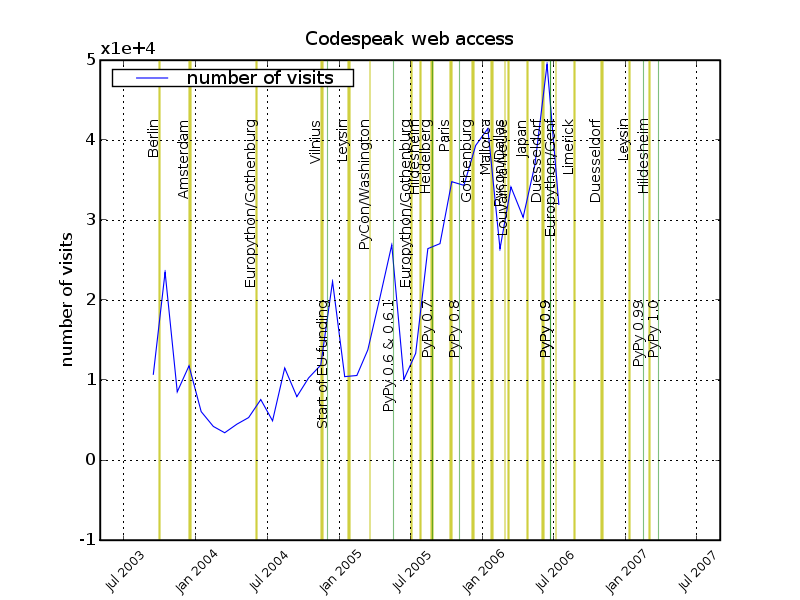
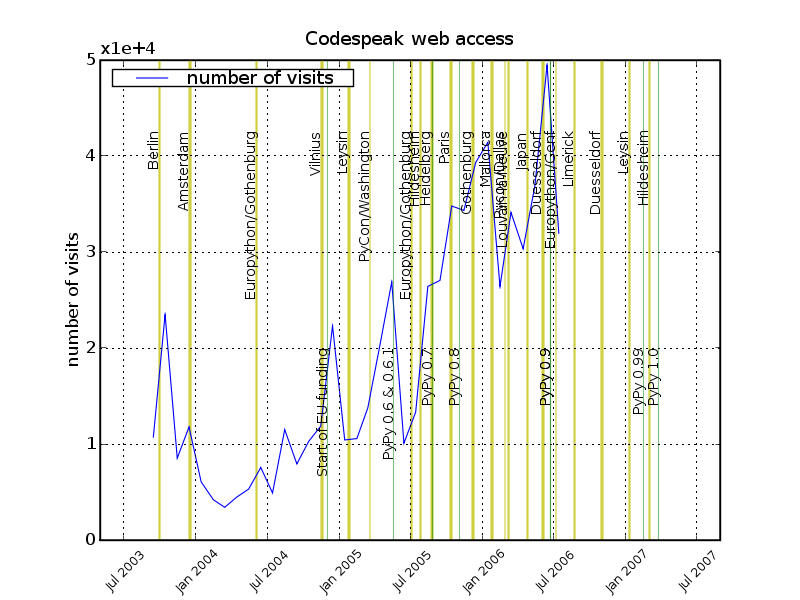
great. the plots improve if I _disable_ the autoscaler. matplotlib sucks.
--HG--
extra : convert_revision : svn%3A5fdb0b31-00ae-4507-bd76-94d651a7451c/pypy/dist%4041718

diff --git a/pypy/doc/statistic/format.py b/pypy/doc/statistic/format.py
@@ -94,7 +94,7 @@ def csv2png(p):
     pylab.xlabel("")
     ticklabels = ax.get_xticklabels()
     pylab.setp(ticklabels, 'rotation', 45, size=9)
-    ax.autoscale_view()
+#    ax.autoscale_view()
     ax.grid(True)
     pylab.title(title)
 
